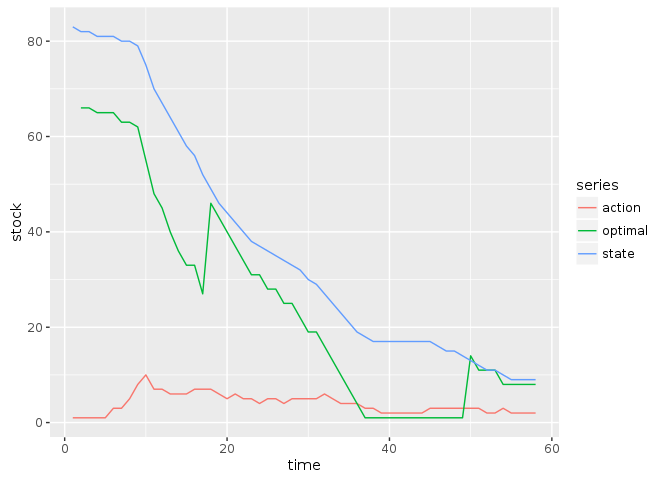
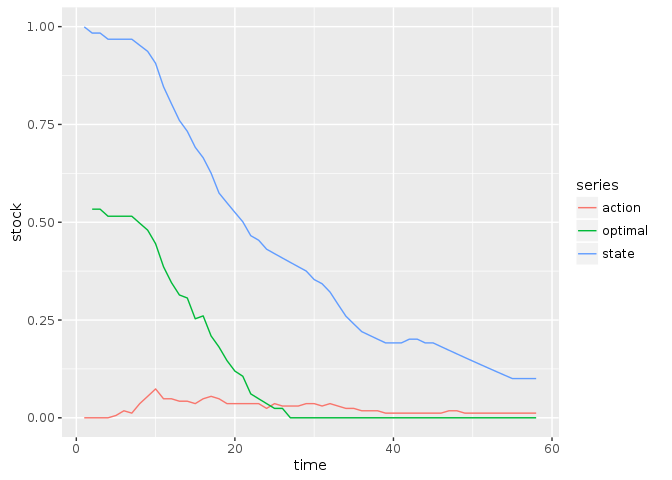
use exp scale to avoid artifacts at small stock sizes

diff --git a/inst/notebook/mdp-tuna.md b/inst/notebook/mdp-tuna.md
@@ -19,6 +19,11 @@ library("dplyr")
 ## choose the state/action/obs space
 states <- seq(0,1.2, length=100) # Vector of all possible states
 actions <- seq(0,.8, length=100)   # Vector of actions: harvest
+
+states <- exp(seq(0, log(1.2 + 1), len=100))-1 # Vector of all possible states
+actions <- exp(seq(0, log(.8 + 1), length=100)) - 1   # Vector of actions: harvest
+
+
 obs <- states
 K <- 0.9903371
 r <- 0.05699246
@@ -135,7 +140,7 @@ out <- mdp_historical(transition, reward, discount, state = y, action = a)
 
 ```r
 out$df %>% 
-  #mutate(state = states[state], recommended = actions[recommended], action = actions[action]) %>% 
+  mutate(state = states[state], optimal = actions[optimal], action = actions[action]) %>% 
   gather(series, stock, -time) %>% 
   ggplot(aes(time, stock, color = series)) + geom_line()
 ```
